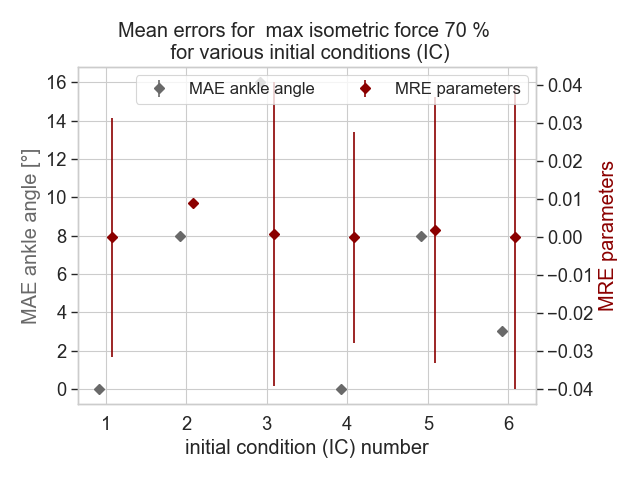
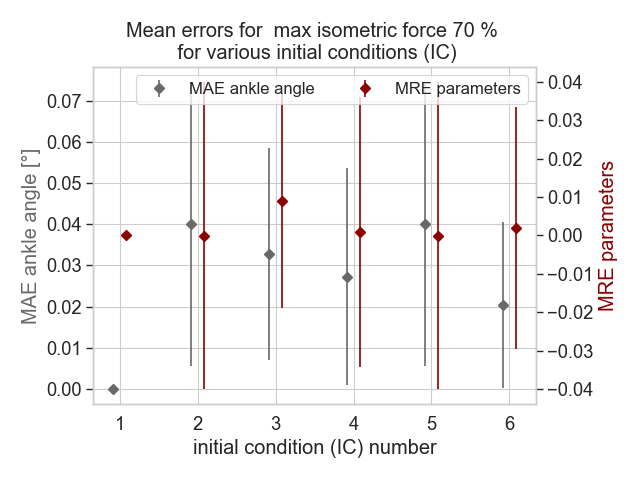
corrected repeated mean error plot

diff --git a/altered_models/src/assess_results_folder.py b/altered_models/src/assess_results_folder.py
@@ -554,25 +554,32 @@ def assess_parameter_folder_rep(parameter_folder, side, scone_folder):
     # Mean absolute error (MAE) ankle kinematics and optimised parameters
     mae_joints = []
     std_joints = []
-    mae_param = []
+    mre_param = []
     std_param = []
 
     # reference first initial condition
     ref_sto = experiment_sto_files[0]
     ref_par = ref_sto.split('.sto')[0]
     ref_var_names, ref_var_tab = extract_sto.extract_sto(ref_sto)
+    joint_name = 'ankle_angle_' + side
+    ref_av_stance_var, ref_av_swing_var, _, _ = extract_sto.mean_gait_phases(ref_var_names, ref_var_tab,
+                                                                             joint_name, side)
+    ref_av_gc_var = np.concatenate((ref_av_stance_var, ref_av_swing_var))
+
+    # other IC results
     for idx in range(len(experiment_sto_files)-1):
         experiment_sto = experiment_sto_files[1+idx]
         print(experiment_sto)
 
         # MAE ankle kinematics
         var_names, var_tab = extract_sto.extract_sto(experiment_sto)
-        joint_name = 'ankle_angle_' + side
         try:
-            _, _, av_gait_cycle, _ = extract_sto.mean_gait_phases(var_names, var_tab, joint_name, side)
-            _, _, ref_av_gait_cycle, _ = extract_sto.mean_gait_phases(ref_var_names, ref_var_tab, joint_name, side)
-            mae_joints.append(np.mean(np.abs(av_gait_cycle-ref_av_gait_cycle)))
-            std_joints.append(np.std(np.abs(av_gait_cycle - ref_av_gait_cycle)))
+            av_stance_var, av_swing_var, _, _ = extract_sto.mean_gait_phases(var_names, var_tab, joint_name, side)
+            av_gc_var = np.concatenate((av_stance_var, av_swing_var))
+            av_gc_var = np.interp(np.arange(len(ref_av_gc_var))/(len(ref_av_gc_var)-1)*100,
+                                  np.arange(len(av_gc_var))/(len(av_gc_var)-1)*100, av_gc_var)
+            mae_joints.append(np.mean(np.abs(av_gc_var-ref_av_gc_var)))
+            std_joints.append(np.std(np.abs(av_gc_var-ref_av_gc_var)))
         except:
             mae_joints.append(np.nan)
             mae_joints.append(np.nan)
@@ -580,10 +587,10 @@ def assess_parameter_folder_rep(parameter_folder, side, scone_folder):
         # MAE optimised parameters
         experiment_par = experiment_sto.split('.sto')[0]
         try:
-            sto_mae_param, sto_std_param = extract_sto.mae_param(experiment_par, ref_par)
+            sto_mre_param, sto_std_param = extract_sto.mre_param(experiment_par, ref_par)
         except:
-            sto_mae_param, sto_std_param = np.nan, np.nan
-        mae_param.append(sto_mae_param)
+            sto_mre_param, sto_std_param = np.nan, np.nan
+        mre_param.append(sto_mre_param)
         std_param.append(sto_std_param)
 
         experiment_sto_success.append(experiment_sto)
@@ -593,7 +600,7 @@ def assess_parameter_folder_rep(parameter_folder, side, scone_folder):
     experiments_dict = {'parameter_value': experiment_values_success,
                         'mae_joints': mae_joints,
                         'std_joints': std_joints,
-                        'mae_param': mae_param,
+                        'mre_param': mre_param,
                         'std_param': std_param}
 
     experiments_df = pd.DataFrame.from_dict(experiments_dict, orient='index').T
@@ -626,5 +633,5 @@ def assess_parameter_folder_rep(parameter_folder, side, scone_folder):
     healthy_std = 0
     psm.plot_metrics_std(experiments_dict['mae_joints'], experiments_dict['std_joints'], experiment_values_float_success,
                         metric, x_label, report_folder, healthy_value, healthy_metric, healthy_std,
-                        metric_values2=experiments_dict['mae_param'], std_values2=experiments_dict['std_param'],
+                        metric_values2=experiments_dict['mre_param'], std_values2=experiments_dict['std_param'],
                         healthy_metric2=0, std_healthy2=0, plot=False)

diff --git a/altered_models/src/extract_sto.py b/altered_models/src/extract_sto.py
@@ -731,9 +731,9 @@ def modify_model(model_file, sto_dir):
     return osim_file
 
 
-def mae_param(experiment_par, ref_par):
+def mre_param(experiment_par, ref_par):
     """
-    Compute the relative mean absolute error (MAE) between the optimised parameters of 2 optimisation results
+    Compute the mean relative error (MRE) between the optimised parameters of 2 optimisation results
     Parameters
     --------
     experiment_par: (string) path to the first optimised par file
@@ -741,17 +741,17 @@ def mae_param(experiment_par, ref_par):
 
     Returns
     --------
-    mean_mae: (float) mean relative MAE between the optimised parameters of the 2 par files
-    std_mae: (float) std of relative MAE between the optimised parameters of the 2 par files
+    mean_mre: (float) mean MRE between the optimised parameters of the 2 par files
+    std_mre: (float) std of MRE between the optimised parameters of the 2 par files
     """
     par_file = open(experiment_par, 'r')
     lines = par_file.readlines()
-    mae = np.zeros(len(lines))
+    mre = np.zeros(len(lines))
 
     ref_file = open(ref_par, 'r')
     ref_lines = ref_file.readlines()
 
     for l in range(8, len(lines)):
-        mae[l] = np.abs(float(lines[l].split()[1]) - float(ref_lines[l].split()[1]))/float(ref_lines[l].split()[1])
+        mre[l] = np.abs(float(lines[l].split()[1]) - float(ref_lines[l].split()[1]))/float(ref_lines[l].split()[1])
 
-    return np.mean(mae), np.std(mae)
+    return np.mean(mre), np.std(mre)

diff --git a/altered_models/src/par_sto_metrics.py b/altered_models/src/par_sto_metrics.py
@@ -428,11 +428,11 @@ def plot_metrics_std(metric_values1, std_values1, parameter_values, metric_name,
         metric_std_extended2 = std_values2 + [std_healthy2]
 
     sorted_idx = np.argsort(parameter_values_extended)
-    parameter_values_extended = [parameter_values_extended[idx] for idx in sorted_idx]
+    parameter_values_extended = [int(parameter_values_extended[idx]) for idx in sorted_idx]
     metric_values_extended1 = [metric_values_extended1[idx] for idx in sorted_idx]
     metric_std_extended1 = [metric_std_extended1[idx] for idx in sorted_idx]
     if metric_values2 is not None:
-        metric_std_extended2 = [metric_std_extended2[idx] for idx in sorted_idx]
+        metric_values_extended2 = [metric_values_extended2[idx] for idx in sorted_idx]
         metric_std_extended2 = [metric_std_extended2[idx] for idx in sorted_idx]
 
     if metric_name.split("_")[0] == "ME" and metric_values2 is None:
